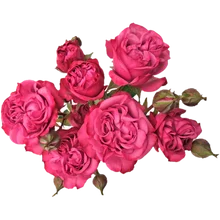
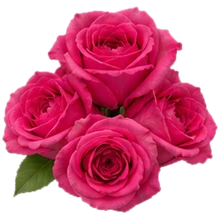
Build-test: clear spray-rose cluster heads (ChatGPT) replace whole-stem supplier photos
Claude-Session: https://claude.ai/code/session_01PYfHQA8XYWgc3XRKMyMJoX

diff --git a/build-test.html b/build-test.html
@@ -255,7 +255,7 @@ textarea{width:100%;font:inherit;font-size:16px;border:1.5px solid var(--line);b
   var $ = function(id){ return document.getElementById(id); };
   var esc = function(t){ return String(t).replace(/[&<>"]/g, function(c){ return { '&':'&amp;', '<':'&lt;', '>':'&gt;', '"':'&quot;' }[c]; }); };
   var money = function(v){ return (Math.round(v * 100) / 100).toLocaleString('en-US', { maximumFractionDigits: 2 }) + ' ر.س'; };
-  var head = function(id){ return '/img/heads/' + id + '.webp?v=6'; };
+  var head = function(id){ return '/img/heads/' + id + '.webp?v=7'; };
   var img = function(id, big){ return '/img/p/' + id + (big ? '-1' : '-1s') + '.webp'; };
   var fk = function(k){ return FL.filter(function(f){ return f.k === k; })[0]; };
   var fq = function(f){ return S.q[f.k].reduce(function(a, n){ return a + n; }, 0); };
@@ -352,7 +352,7 @@ textarea{width:100%;font:inherit;font-size:16px;border:1.5px solid var(--line);b
     var W = 300, cx = 150, cy = S.base === 'vase' ? 112 : 118, R = Math.max(62, Math.min(108, 52 + N * 3.2)) * (S.base === 'vase' ? .88 : 1), d = Math.max(30, Math.min(N < 6 ? 54 : 64, 2.3 * R / Math.sqrt(N))) * (photo ? 1.05 : 1), html = '';
     for(var i = N - 1; i >= 0; i--){ var l = deal[i], r = R * Math.sqrt((i + .5) / N), a = i * 2.39996, s = d * HEAD[l.f.k];
       var sn, x = cx + r * Math.cos(a) * (S.base === 'vase' ? .95 : 1.08), sn = Math.sin(a), y = cy - 6 + r * sn * (sn > 0 ? .42 : .8) - (1 - r / R) * 12;
-      html += '<span class="hd ph" style="width:' + s.toFixed(1) + 'px;height:' + s.toFixed(1) + 'px;left:' + (x - s / 2).toFixed(1) + 'px;top:' + (y - s / 2).toFixed(1) + 'px;z-index:' + (100 - i) + ';transform:rotate(' + (((i * 37) % 24) - 12) + 'deg)">' + '<img src="' + (photo ? '/img/heads/' + l.c[3] + '.webp?v=6' : ill(ILL[l.c[3]] || 'r-pink')) + '" alt="" decoding="async">' + '</span>'; }
+      html += '<span class="hd ph" style="width:' + s.toFixed(1) + 'px;height:' + s.toFixed(1) + 'px;left:' + (x - s / 2).toFixed(1) + 'px;top:' + (y - s / 2).toFixed(1) + 'px;z-index:' + (100 - i) + ';transform:rotate(' + (((i * 37) % 24) - 12) + 'deg)">' + '<img src="' + (photo ? '/img/heads/' + l.c[3] + '.webp?v=7' : ill(ILL[l.c[3]] || 'r-pink')) + '" alt="" decoding="async">' + '</span>'; }
     var greens = ''; for(var k = 0; k < (S.ex.green ? 12 : 7); k++){ var ga = Math.PI * (1.12 + k * (0.76 / (S.ex.green ? 11 : 6))), gx = cx + Math.cos(ga) * (R - 2) * 1.12, gy = cy + Math.sin(ga) * (R * .74) + 4;
       greens += '<span class="lf" style="left:' + (gx - 16).toFixed(1) + 'px;top:' + (gy - 30).toFixed(1) + 'px;transform:rotate(' + (ga * 57.3 + 90).toFixed(0) + 'deg)">' + '<img src="' + (S.pv === 'photo' ? head('euca') : ill(k % 2 ? 'g-euca2' : 'g-euca')) + '" alt="" style="width:100%;height:100%;object-fit:contain">' + '</span>'; }
     // the wrap is two sheets: one fanned out behind the flowers, one folded in front, tied with a satin bow
